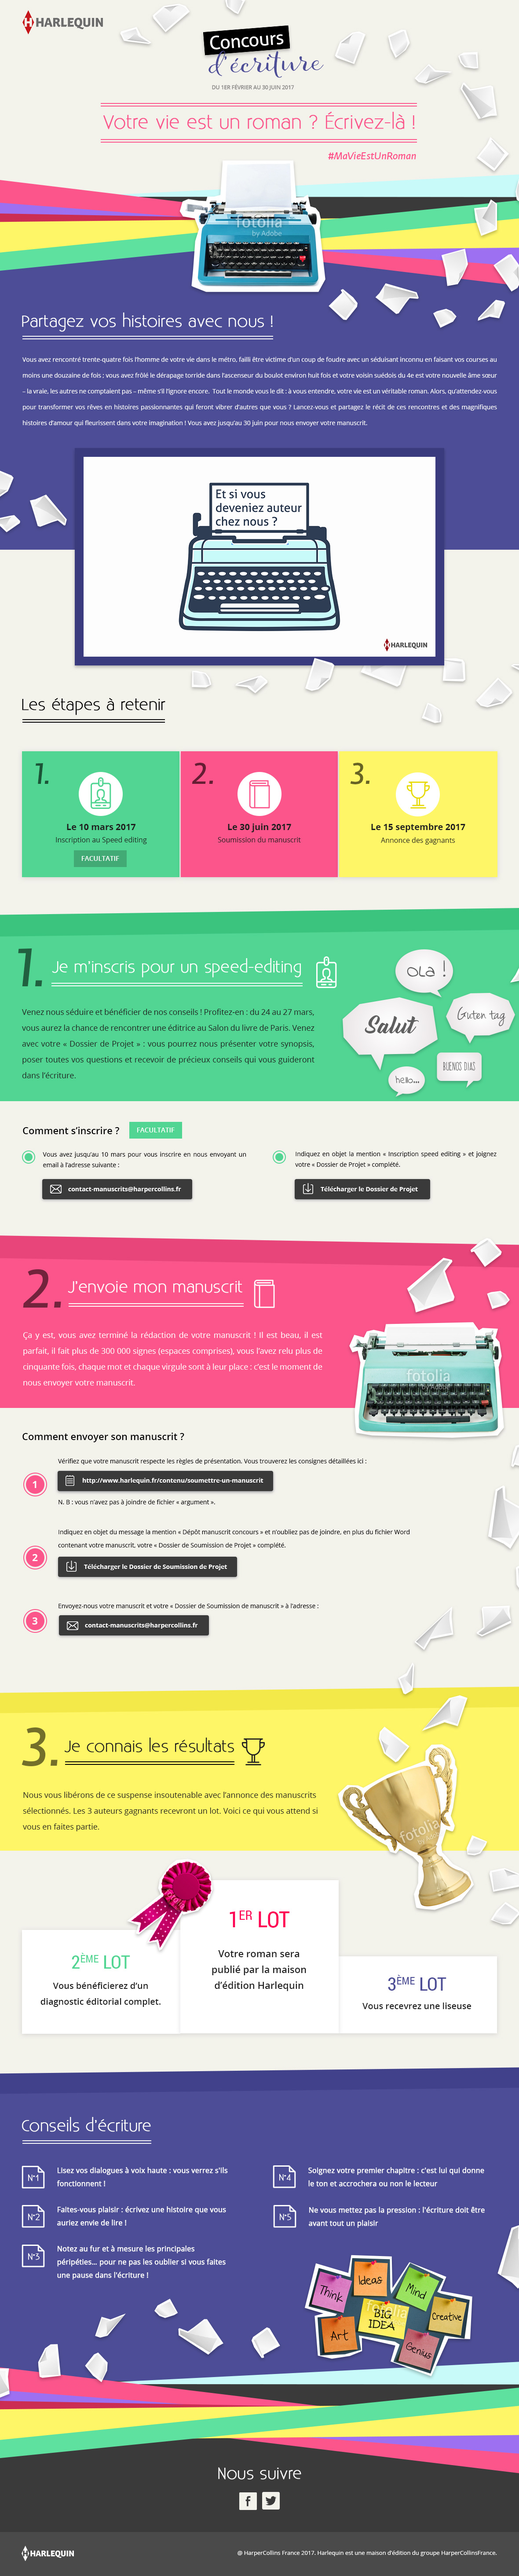
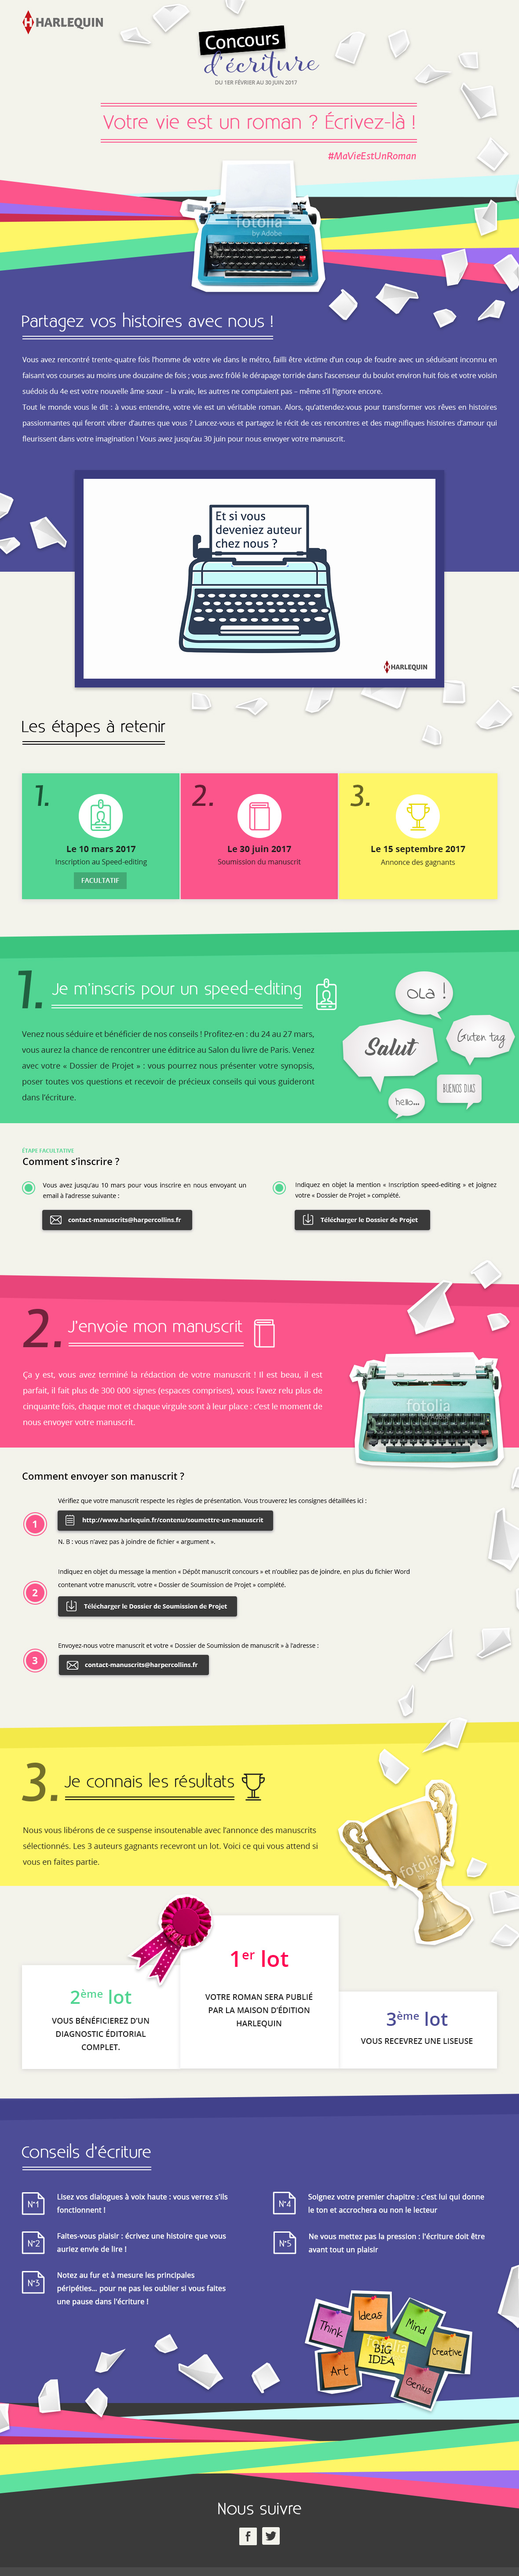
Update v2

diff --git a/hq/concours-ecriture/2/index.html b/hq/concours-ecriture/2/index.html
@@ -14,7 +14,7 @@ body {
 </style>
 </head>
 <body bgcolor="#f3f2eb" text="#000000" link="#000000" vlink="#000000" alink="#000000" leftmargin="0" topmargin="0" marginwidth="0" marginheight="0">
-<img src="img/body.jpg" width="1180" height="5853">
+<img src="img/body.jpg" width="1180" height="5933">
 
 
 </body></html>
